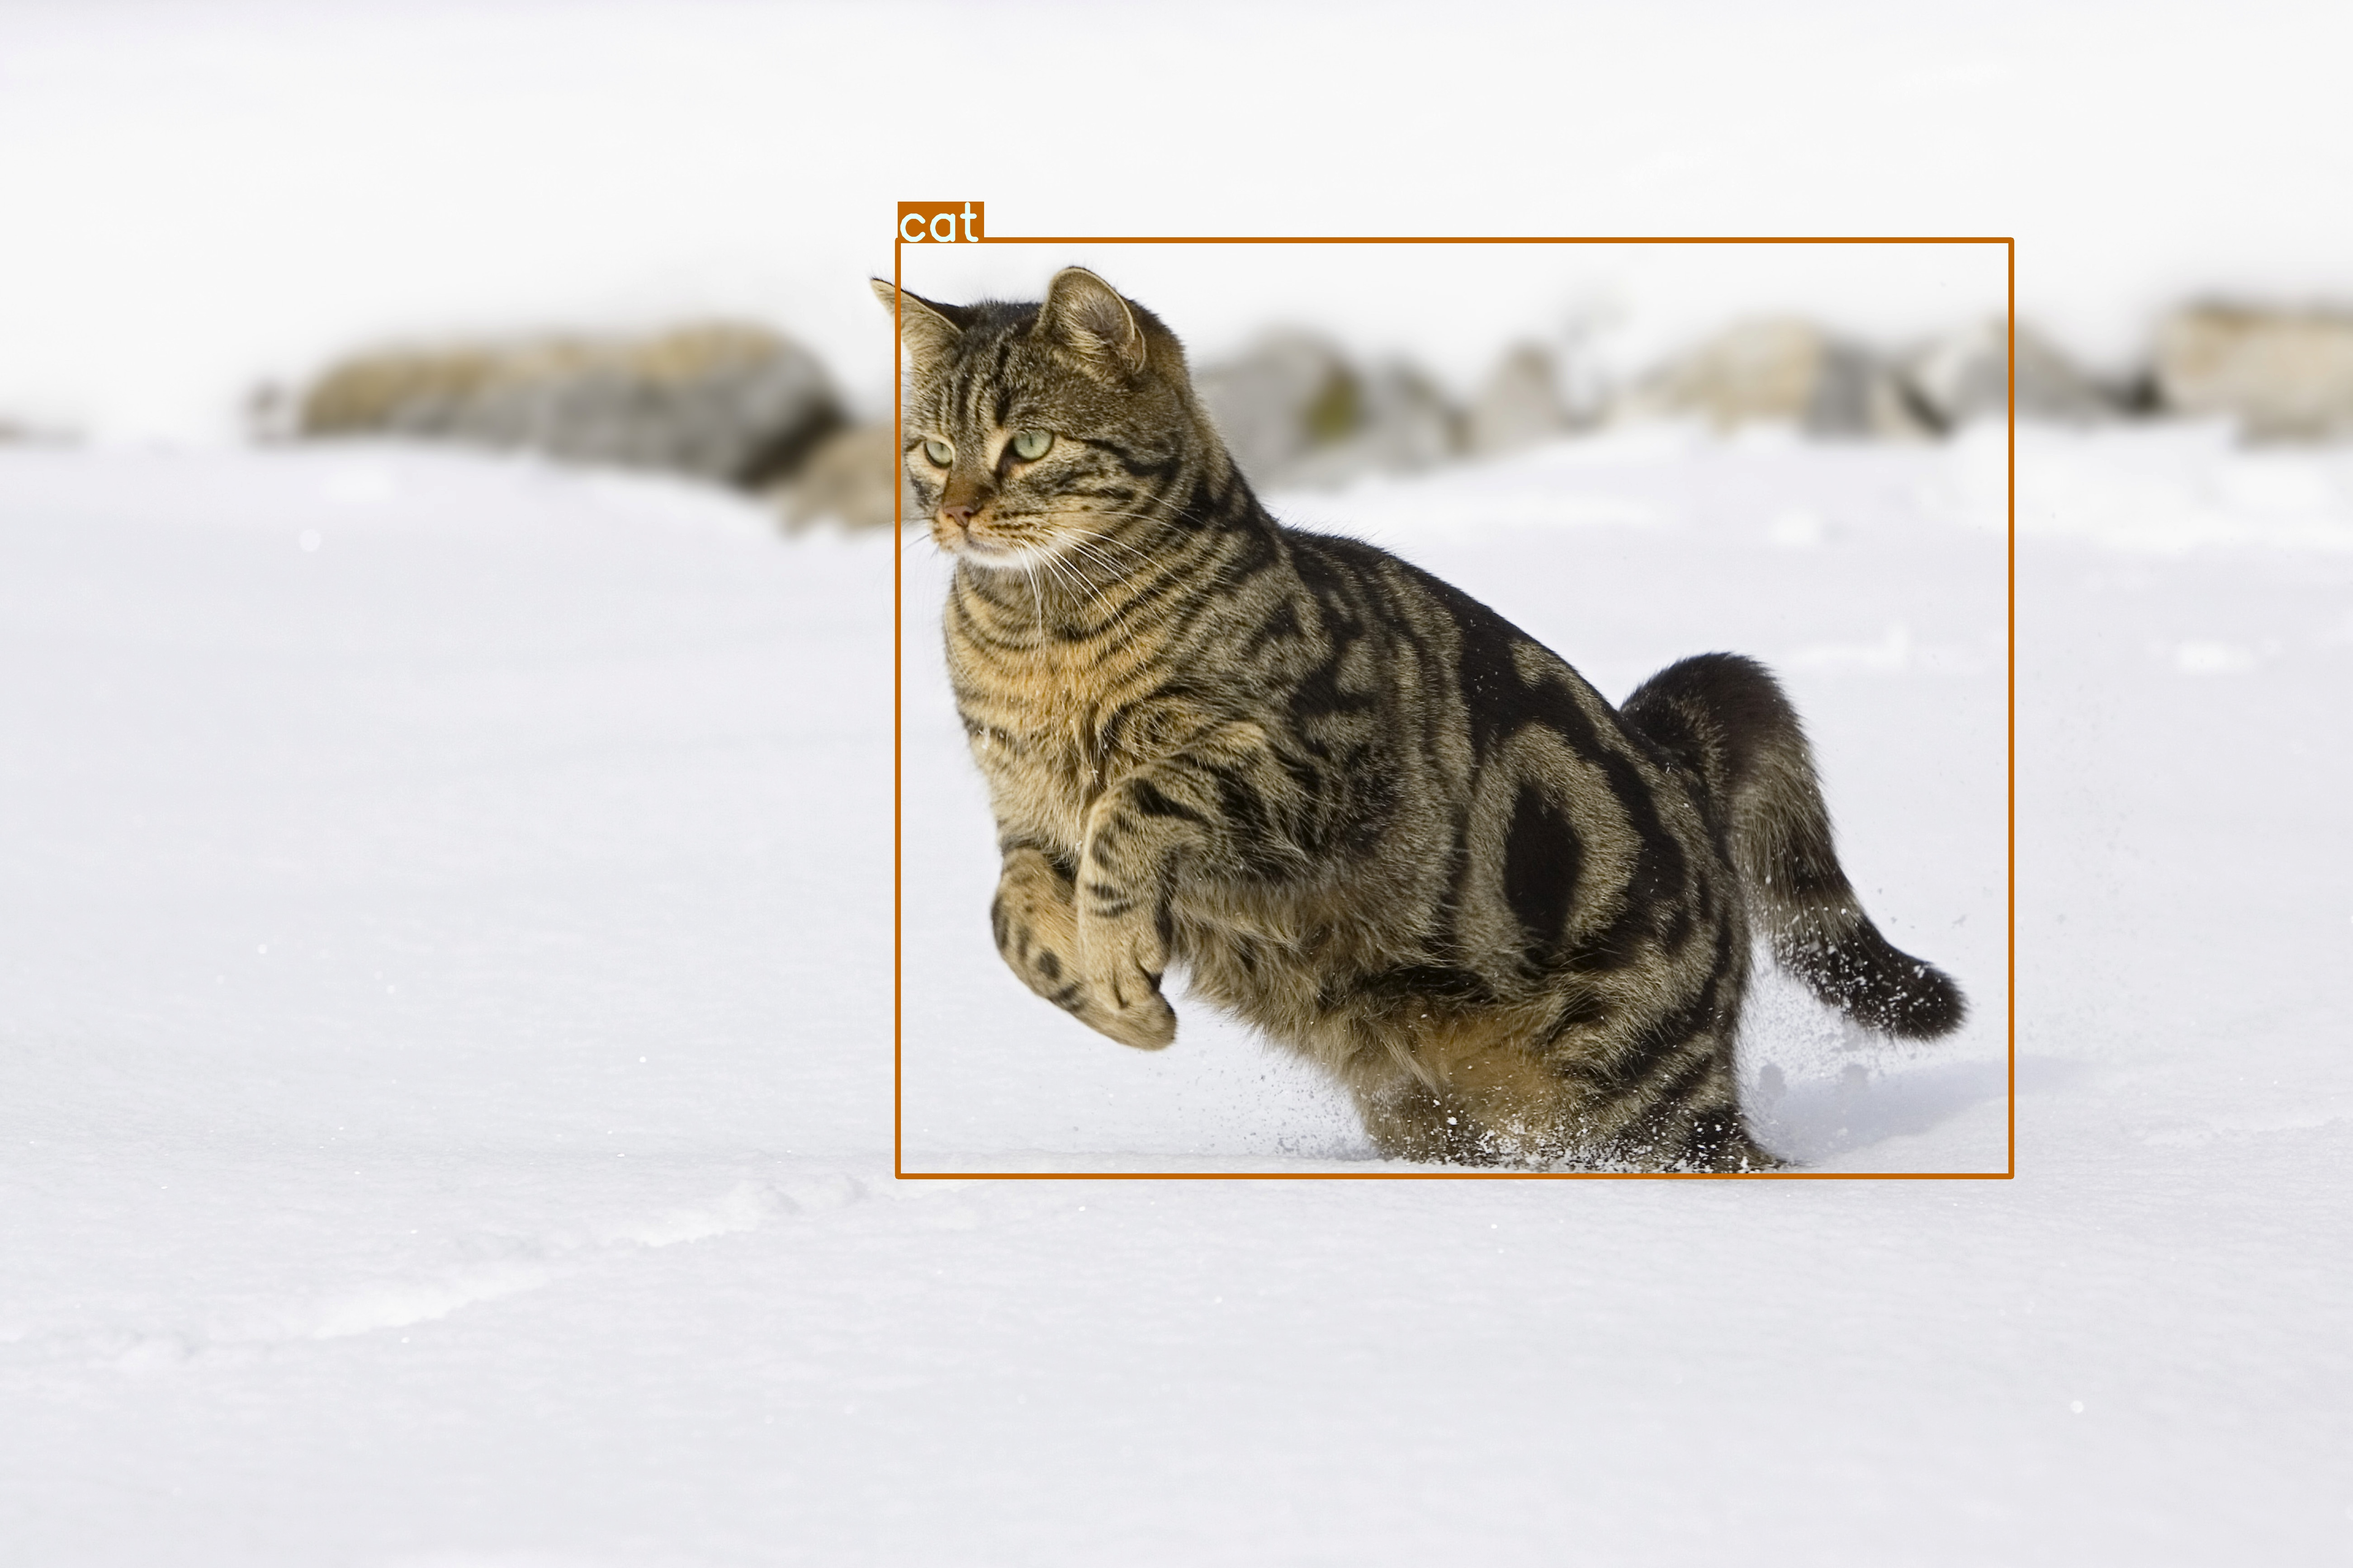
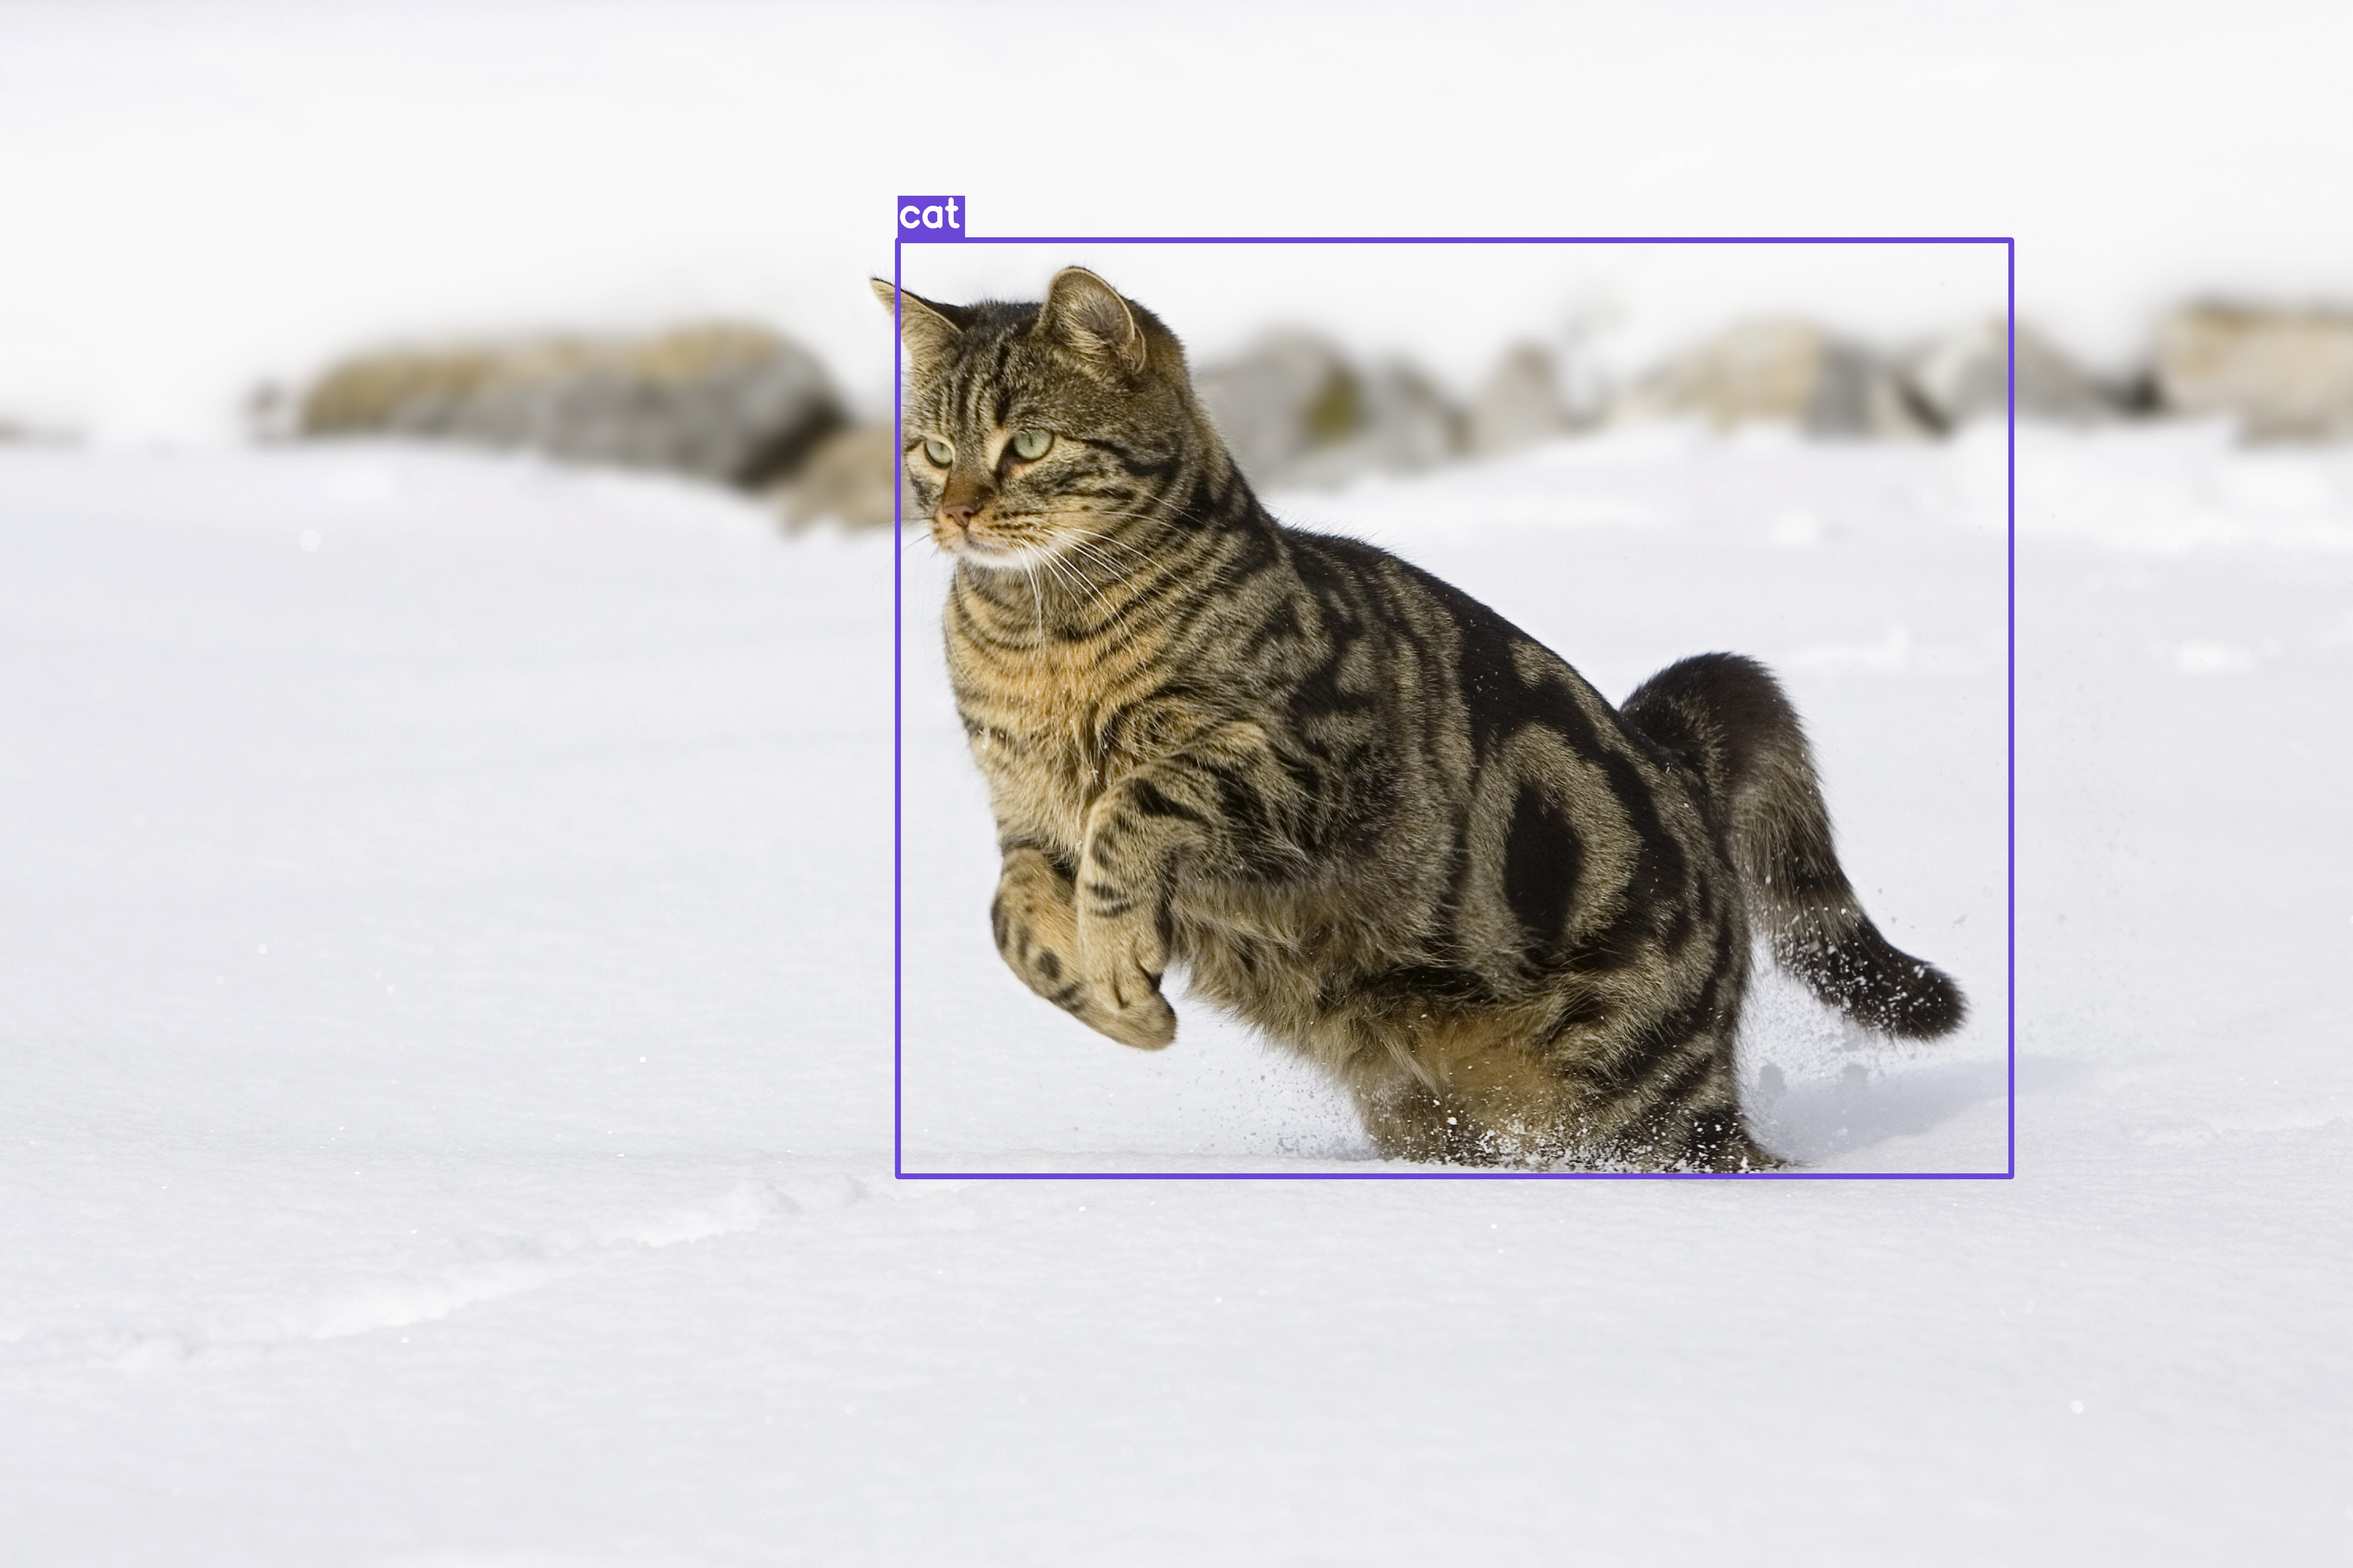
修正一點回傳值與前端顯示

Changed region(s): [[0.3736, 0.7472, 0.8407, 0.7783], [0.3736, 0.1245, 0.8407, 0.1557]]

diff --git a/independent_study/templates/index.html b/independent_study/templates/index.html
@@ -136,13 +136,21 @@
 
     .result-section { display: none; margin-top: 24px; }
 
-    .curl-block { margin-top: 28px; width: 100%; max-width: 520px; }
-    .curl-block summary { color: var(--muted); font-size: 0.78rem; cursor: pointer; user-select: none; margin-bottom: 8px; }
+    /* ── info blocks ── */
+    .info-container { width: 100%; max-width: 520px; margin-top: 20px; display: flex; flex-direction: column; gap: 12px; }
+    .info-block { width: 100%; }
+    .info-block summary { color: var(--muted); font-size: 0.78rem; cursor: pointer; user-select: none; margin-bottom: 6px; outline: none; }
+    .info-block summary:hover { color: var(--text); }
+    
     pre {
       background: var(--surface); border: 1px solid var(--border); border-radius: 8px;
       padding: 16px; font-size: 0.72rem; color: #aaa;
-      overflow-x: auto; white-space: pre-wrap; word-break: break-all;
+      overflow-x: auto; white-space: pre; word-break: normal;
+      font-family: 'Courier New', Courier, monospace;
     }
+    .json-key { color: #e8ff47; }
+    .json-str { color: #a2e57b; }
+    .json-num { color: #ff9d5c; }
   </style>
 </head>
 <body>
@@ -200,95 +208,114 @@
     </div>
   </div>
 
-  <details class="curl-block">
-    <summary>▸ cURL 範例指令</summary>
-    <pre>curl -X POST http://localhost:5001/upload \
+  <div class="info-container">
+    <details class="info-block">
+      <summary>▸ cURL 範例指令</summary>
+      <pre>curl -X POST http://localhost:5001/upload \
   -F "image=@/path/to/your/image.jpg" \
   -F "model=yolo"</pre>
-  </details>
+    </details>
+
+    <details class="info-block">
+      <summary>▸ Response JSON 範例</summary>
+      <pre>{
+  <span class="json-key">"model"</span>: <span class="json-str">"torch"</span>,
+  <span class="json-key">"cost_sec"</span>: <span class="json-num">0.74</span>,
+  <span class="json-key">"tag_scores"</span>: {
+    <span class="json-key">"cat"</span>: <span class="json-num">0.9957</span>
+  },
+  <span class="json-key">"ora_img"</span>: <span class="json-str">"http://127.0.0.1:5566/static/uploads/..._cat2.jpeg"</span>,
+  <span class="json-key">"detect_img"</span>: <span class="json-str">"http://127.0.0.1:5566/static/results/..._cat2.jpeg"</span>
+}</pre>
+    </details>
+  </div>
 
   <script>
-    const fileInput     = document.getElementById('fileInput');
-    const uploadBtn     = document.getElementById('uploadBtn');
-    const fnameEl       = document.getElementById('fname');
-    const statusEl      = document.getElementById('status');
-    const dropZone      = document.getElementById('dropZone');
-    const modelSelect   = document.getElementById('modelSelect');
-    const resultSection = document.getElementById('resultSection');
-    const tagsRow       = document.getElementById('tagsRow');
-    const oraImg        = document.getElementById('oraImg');
-    const detectImg     = document.getElementById('detectImg');
-    const metaModel     = document.getElementById('metaModel');
-    const metaCost      = document.getElementById('metaCost');
+  const fileInput     = document.getElementById('fileInput');
+  const uploadBtn     = document.getElementById('uploadBtn');
+  const fnameEl       = document.getElementById('fname');
+  const statusEl      = document.getElementById('status');
+  const dropZone      = document.getElementById('dropZone');
+  const modelSelect   = document.getElementById('modelSelect');
+  const resultSection = document.getElementById('resultSection');
+  const tagsRow       = document.getElementById('tagsRow');
+  const oraImg        = document.getElementById('oraImg');
+  const detectImg     = document.getElementById('detectImg');
+  const metaModel     = document.getElementById('metaModel');
+  const metaCost      = document.getElementById('metaCost');
 
-    fileInput.addEventListener('change', () => {
-      if (fileInput.files[0]) {
-        fnameEl.textContent = fileInput.files[0].name;
-        uploadBtn.disabled = false;
-      }
-    });
-
-    dropZone.addEventListener('dragover', e => { e.preventDefault(); dropZone.classList.add('dragover'); });
-    dropZone.addEventListener('dragleave', () => dropZone.classList.remove('dragover'));
-    dropZone.addEventListener('drop', e => {
-      e.preventDefault();
-      dropZone.classList.remove('dragover');
-      fileInput.files = e.dataTransfer.files;
-      fileInput.dispatchEvent(new Event('change'));
-    });
-
-    async function upload() {
-      const file = fileInput.files[0];
-      if (!file) return;
-
-      statusEl.textContent = '上傳中…';
-      uploadBtn.disabled = true;
-      resultSection.style.display = 'none';
-      tagsRow.innerHTML = '';
-
-      const form = new FormData();
-      form.append('image', file);
-      form.append('model', modelSelect.value);
-
-      try {
-        const res = await fetch('/upload', { method: 'POST', body: form });
-        if (!res.ok) throw new Error(await res.text());
-        const data = await res.json();
-
-        // meta
-        metaModel.textContent = data.model ?? '—';
-        metaCost.textContent  = data.cost_sec != null ? `${data.cost_sec}s` : '—';
-
-        // 圖片
-        oraImg.src    = data.ora_img;
-        detectImg.src = data.detect_img;
-
-        // 標籤 + 信心分數
-        (data.tags || []).forEach(tag => {
-          const score = data.scores?.[tag];
-          const pct   = score != null ? (score * 100).toFixed(2) : null;
-          const el    = document.createElement('div');
-          el.className = 'tag';
-          el.innerHTML = `
-            <span class="label">${tag}</span>
-            ${pct != null ? `
-              <div class="score-bar-bg">
-                <div class="score-bar" style="width:${pct}%"></div>
-              </div>
-              <span class="score-val">${pct}%</span>
-            ` : ''}
-          `;
-          tagsRow.appendChild(el);
-        });
-
-        resultSection.style.display = 'block';
-        statusEl.textContent = '✓ 完成';
-      } catch (e) {
-        statusEl.textContent = '❌ 錯誤：' + e.message;
-      } finally {
-        uploadBtn.disabled = false;
-      }
+  fileInput.addEventListener('change', () => {
+    if (fileInput.files[0]) {
+      fnameEl.textContent = fileInput.files[0].name;
+      uploadBtn.disabled = false;
     }
+  });
+
+  dropZone.addEventListener('dragover', e => { e.preventDefault(); dropZone.classList.add('dragover'); });
+  dropZone.addEventListener('dragleave', () => dropZone.classList.remove('dragover'));
+  dropZone.addEventListener('drop', e => {
+    e.preventDefault();
+    dropZone.classList.remove('dragover');
+    fileInput.files = e.dataTransfer.files;
+    fileInput.dispatchEvent(new Event('change'));
+  });
+
+  async function upload() {
+    const file = fileInput.files[0];
+    if (!file) return;
+
+    statusEl.textContent = '上傳中…';
+    uploadBtn.disabled = true;
+    resultSection.style.display = 'none';
+    tagsRow.innerHTML = ''; 
+
+    const form = new FormData();
+    form.append('image', file);
+    form.append('model', modelSelect.value);
+
+    try {
+      const res = await fetch('/upload', { method: 'POST', body: form });
+      if (!res.ok) throw new Error(await res.text());
+      const data = await res.json();
+
+      // 1. 推論資訊綁定
+      metaModel.textContent = data.model ?? '—';
+      metaCost.textContent  = data.cost_sec != null ? `${data.cost_sec}s` : '—';
+
+      // 2. 圖片路徑更新
+      oraImg.src    = data.ora_img;
+      detectImg.src = data.detect_img;
+
+      // 3. 解析 tag_scores 字典的核心邏輯
+      const scoresObj = data.tag_scores || {};
+      const tagsList = Object.keys(scoresObj);
+
+      tagsList.forEach((tag) => {
+        const score = scoresObj[tag];
+        const pct   = score != null ? (score * 100).toFixed(2) : null;
+
+        const el = document.createElement('div');
+        el.className = 'tag';
+        el.innerHTML = `
+          <span class="label">${tag}</span>
+          ${pct != null ? `
+            <div class="score-bar-bg">
+              <div class="score-bar" style="width:${pct}%"></div>
+            </div>
+            <span class="score-val">${pct}%</span>
+          ` : ''}
+        `;
+        tagsRow.appendChild(el);
+      });
+
+      resultSection.style.display = 'block';
+      statusEl.textContent = '✓ 完成';
+    } catch (e) {
+      statusEl.textContent = '❌ 錯誤：' + e.message;
+    } finally {
+      uploadBtn.disabled = false;
+    }
+  }
   </script>
 </body>
 </html>

diff --git a/independent_study/apps/service/detection_service.py b/independent_study/apps/service/detection_service.py
@@ -20,7 +20,7 @@ class DetectionService:
             self._model.load(self._model.model_path)
             self._loaded = True
 
-    def make_detect_image(self, file) -> tuple[list, dict, str, str]:
+    def make_detect_image(self, file) -> tuple[dict, str, str]:
         """
         接收前端上傳的檔案物件，儲存原始圖片後執行物件偵測，
         並將偵測結果（框線 + 標籤）繪製後存檔。
@@ -29,8 +29,6 @@ class DetectionService:
             file: 前端上傳的檔案物件（需支援 .read() 與 .filename）
 
         Returns:
-            tuple: (tags, tag_scores, detect_img)
-                - tags (list[str]): 本次偵測到的物件標籤清單（去重複）
                 - tag_scores (dict): 各標籤對應的信心分數
                 - ora_img (str): 原圖片的網址
                 - detect_img (str): 偵測結果圖片的網址
@@ -51,7 +49,7 @@ class DetectionService:
         print(f"labels: {labels}")
 
         image = Image.open(input_path)
-        tags = []  # 紀錄已標記過的標籤，避免重複
+        tags = []
         tag_scores = {}  # 紀錄每個標籤對應的信心分數
         result_image = np.array(image.copy())  # 複製原圖作為繪圖畫布（RGB numpy array）
 
@@ -84,7 +82,7 @@ class DetectionService:
                 result_image = draw_texts(result_image, line, c1, color, labels, label_idx)
 
                 # 記錄已處理的標籤與對應信心分數
-                tags.append(labels[label_idx])
+                tags.append(label_idx)
                 tag_scores[labels[label_idx]] = round(float(score), 4)
 
         # ✅ imwrite 前確認 result_image 是合法的 numpy array
@@ -97,6 +95,6 @@ class DetectionService:
 
         # return data
         detect_img = f"{ImageConst.WEB_BASE_URL}/{ImageConst.RESULT_FOLDER}/{output_path.name}"
-        print(tags, tag_scores, ora_img, detect_img)
+        print(tag_scores, ora_img, detect_img)
 
-        return tags, tag_scores, ora_img, detect_img
+        return tag_scores, ora_img, detect_img

diff --git a/independent_study/apps/route/image_route.py b/independent_study/apps/route/image_route.py
@@ -44,7 +44,7 @@ def upload():
         svc = DetectionService(model=model)
 
         t0 = time.time()
-        tags, tag_scores, ora_img, detect_img = svc.make_detect_image(file)
+        tag_scores, ora_img, detect_img = svc.make_detect_image(file)
         cost = round(time.time() - t0, 3)
         print(f"\n[{model.__class__.__name__}] make_detect_image cost: {cost}s")
 
@@ -54,8 +54,7 @@ def upload():
     data = {
         "model": model_type,
         "cost_sec": cost,
-        "tags": tags,
-        "scores": tag_scores,
+        "tag_scores": tag_scores,
         "ora_img": ora_img,
         "detect_img": detect_img
     }

diff --git a/independent_study/apps/const/image_const.py b/independent_study/apps/const/image_const.py
@@ -118,7 +118,7 @@ class ImageConst:
      'refrigerator', 'book', 'clock', 'vase', 'scissors', 'teddy bear', 'hair drier',
      'toothbrush']
 
-    SCORE_THRESHOLD= 0.7
+    SCORE_THRESHOLD= 0.5
 
 def allowed_file(filename: str) -> bool:
     return "." in filename and filename.rsplit(".", 1)[1].lower() in ImageConst.ALLOWED_EXTENSIONS
